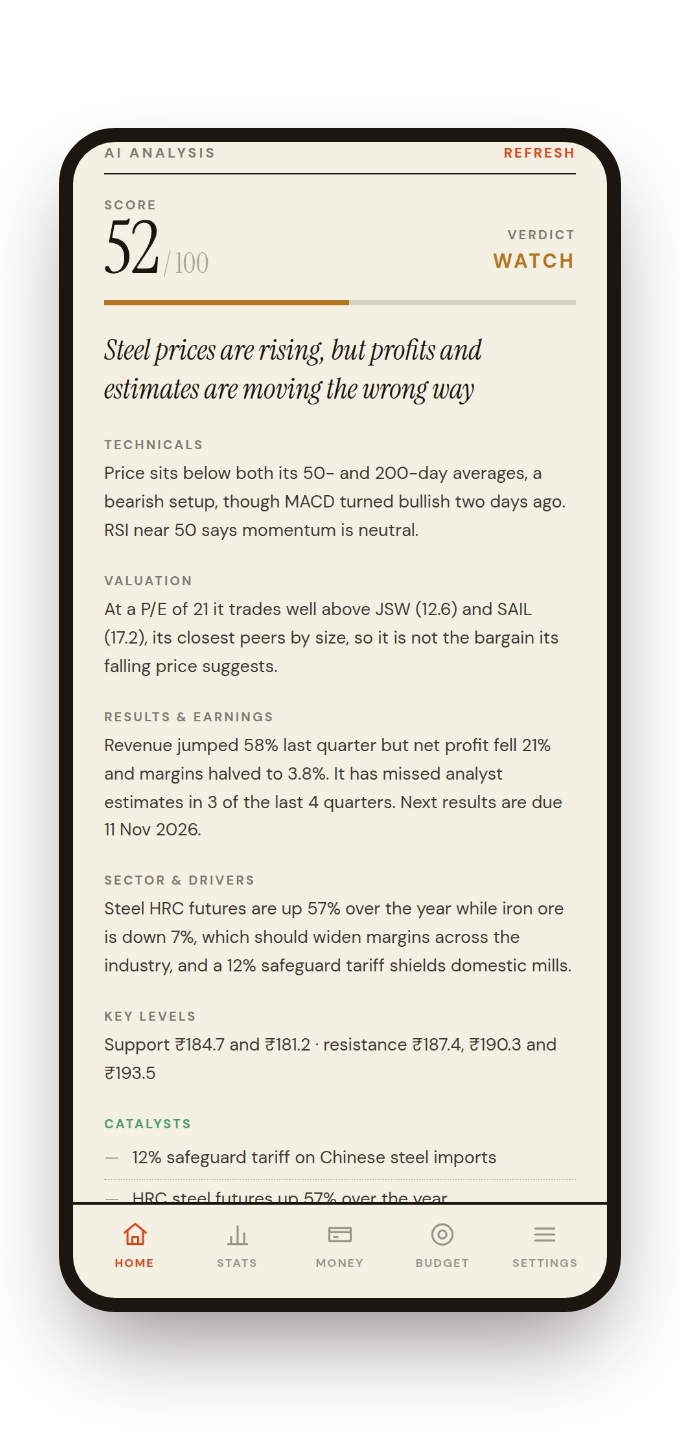
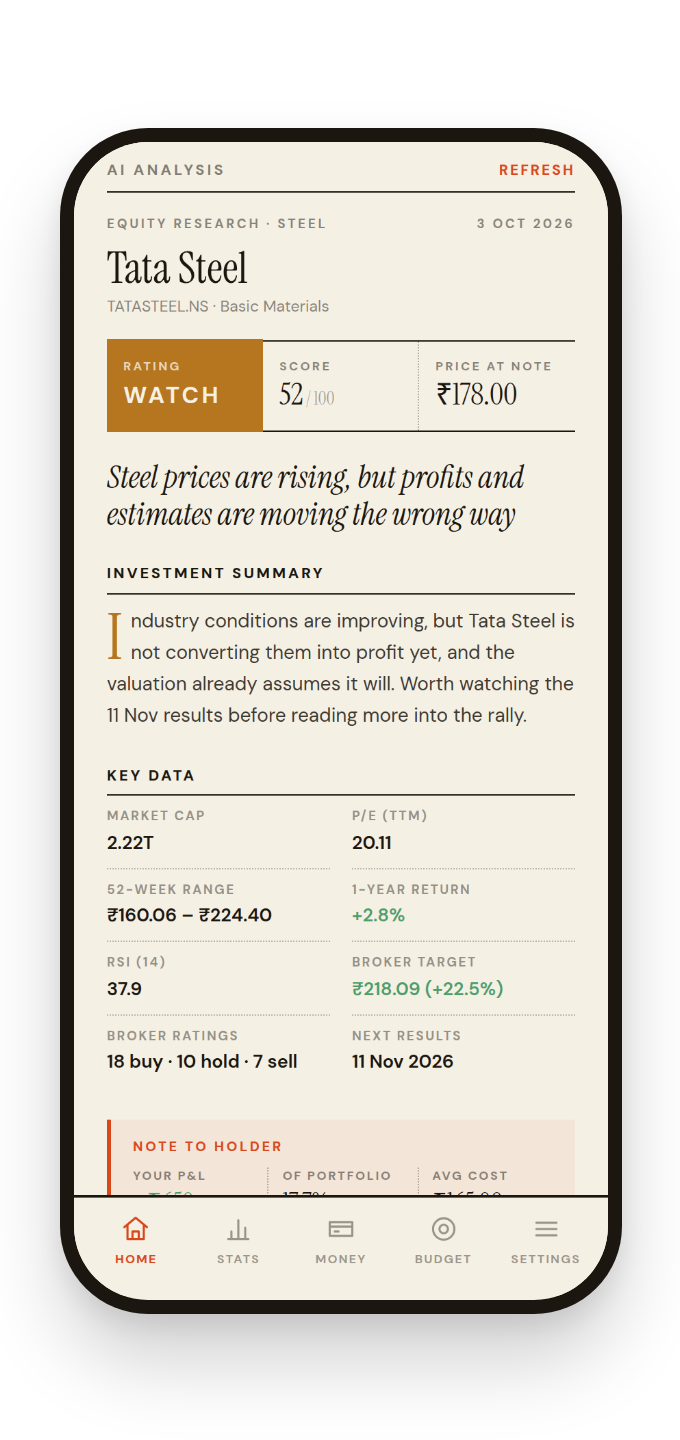
docs: new analysis screen, 4th in README and tour

diff --git a/src/components/onboarding/WelcomeTour.jsx b/src/components/onboarding/WelcomeTour.jsx
@@ -14,8 +14,8 @@ const SLIDES = [
   { img: homeImg,      accent: '#D9481C', title: 'Everything at a glance',  body: "Your month's spend, budget, portfolio and dues — all on one home screen." },
   { img: askImg,       accent: '#6C5FB0', title: 'Ask Finances anything',  body: 'Ask about your spending, budgets or how the app works — and get instant monthly recaps.' },
   { img: portfolioImg, accent: '#4E9E6A', title: 'Track your investments',  body: 'Stocks, mutual funds and SIPs with live prices, returns and allocation.' },
-  { img: detailImg,    accent: '#B5761F', title: 'Deep-dive any holding',   body: 'Tap a stock or fund for its live chart, key levels, fundamentals, analyst view and latest news.' },
   { img: analysisImg,  accent: '#1B1710', title: 'A research note on demand', body: 'One tap weighs the sector, real competitors, quarterly results and news — and tracks how past calls played out.' },
+  { img: detailImg,    accent: '#B5761F', title: 'Deep-dive any holding',   body: 'Tap a stock or fund for its live chart, key levels, fundamentals, analyst view and latest news.' },
   { img: moneyImg,     accent: '#6C5FB0', title: 'Your whole net worth',    body: 'Metals, FDs, loans and investments in one number — with a trend that grows.' },
   { img: breakdownImg, accent: '#C9972E', title: 'Where your money goes',   body: 'A clear category breakdown for every month.' },
   { img: trendsImg,    accent: '#3E7CA6', title: 'Spot the trends',         body: 'Watch each category move, month over month.' },]

diff --git a/README.md b/README.md
@@ -28,19 +28,19 @@ An offline-first personal finance app: track spending, budgets, investments, gol
 <div align="center">
 <table>
   <tr>
-    <td align="center"><img src="docs/frames/home.png" width="215"/><br/><b>Home</b><br/><sub>Spend · budget · portfolio</sub></td>
+    <td align="center"><img src="docs/frames/home.png" width="215"/><br/><b>Home</b><br/><sub>Budget, journal & portfolio</sub></td>
     <td align="center"><img src="docs/frames/money.png" width="215"/><br/><b>Net worth</b><br/><sub>Everything you own & owe</sub></td>
     <td align="center"><img src="docs/frames/portfolio.png" width="215"/><br/><b>Portfolio</b><br/><sub>Live stocks & mutual funds</sub></td>
+  </tr>
+  <tr>
+    <td align="center"><img src="docs/frames/analysis.png" width="215"/><br/><b>Stock analysis 🔬</b><br/><sub>A research note on demand</sub></td>
+    <td align="center"><img src="docs/frames/detail.png" width="215"/><br/><b>Holding detail</b><br/><sub>Chart, levels, your position</sub></td>
+    <td align="center"><img src="docs/frames/ask.png" width="215"/><br/><b>Ask Finances 🪄</b><br/><sub>AI: your money & the app</sub></td>
   </tr>
   <tr>
     <td align="center"><img src="docs/frames/breakdown.png" width="215"/><br/><b>Breakdown</b><br/><sub>Where money goes</sub></td>
     <td align="center"><img src="docs/frames/trends.png" width="215"/><br/><b>Trends</b><br/><sub>Category, month over month</sub></td>
     <td align="center"><img src="docs/frames/udhaar.png" width="215"/><br/><b>Udhaar</b><br/><sub>Who owes you & you owe</sub></td>
-  </tr>
-  <tr>
-    <td align="center"><img src="docs/frames/ask.png" width="215"/><br/><b>Ask Finances 🪄</b><br/><sub>AI: your money & the app</sub></td>
-    <td align="center"><img src="docs/frames/analysis.png" width="215"/><br/><b>Stock analysis 🔬</b><br/><sub>Sector, peers, results & news</sub></td>
-    <td align="center"><img src="docs/frames/detail.png" width="215"/><br/><b>Holding detail</b><br/><sub>Chart, levels, your position</sub></td>
   </tr>
 </table>
 </div>
